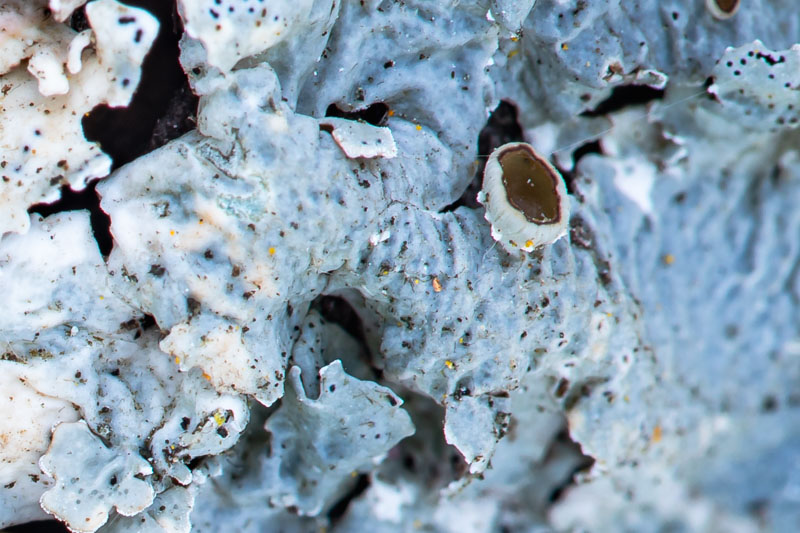
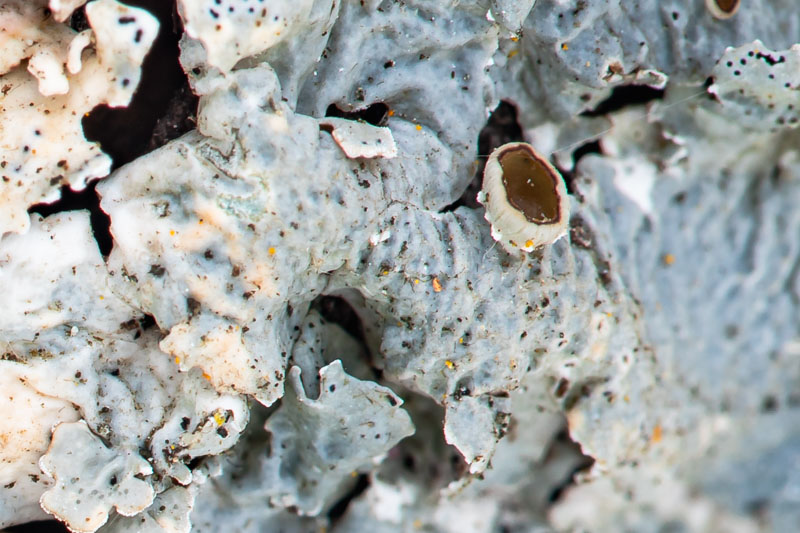
Update Greenshield

diff --git a/_site/gallery/fungi/lichen/common-greenshield/index.html b/_site/gallery/fungi/lichen/common-greenshield/index.html
@@ -113,7 +113,7 @@
 
 <p><strong>Common Greenshield Lichen</strong> is a pale yellow-green foliose species with <strong>broad, smooth, loosely attached lobes</strong> forming rounded mats on hardwood bark. The upper surface is often gently wrinkled and <strong>laminally sorediate</strong>, while margins lift slightly to reveal a <strong>dark lower surface that grades from black centrally to brown toward the edges</strong>, bearing <strong>simple black rhizines</strong>.</p>
 
-<p class="caption"><img src="/gallery/fungi/lichen/assets/common-greenshield/E21A6505.jpg" alt="Greenshield Circle" class="cover" role="img" aria-label="Greenshield Circle" />
+<p class="caption"><img src="/gallery/fungi/lichen/assets/common-greenshield/E21A6505.jpg" alt="Greenshield Circle" class="cover" role="img" aria-label="Greenshield Circle" id="e21a6505" />
 <strong>Greenshield Circle</strong><br />
 <em>A rounded foliose colony anchored firmly to aging elm bark.</em><br />
 Camera: Canon EOS 5D Mk IV<br />
@@ -123,7 +123,7 @@ Settings: ISO 200 • Aperture f/13 • Shutter 2.0 s<br />
 
 <p>The <strong>Greenshield Circle</strong> image shows a near-perfect foliose rosette centered on deeply fissured elm bark, surrounded by bright crustose yellows and scattered gray foliose neighbors. The matte surface and pale green hue create a calm focal point against the rough, dark background.</p>
 
-<p class="caption"><img src="/gallery/fungi/lichen/assets/common-greenshield/E21A6518.jpg" alt="Twin Colonies on an Elm Trunk" class="cover" role="img" aria-label="Twin Colonies on an Elm Trunk" />
+<p class="caption"><img src="/gallery/fungi/lichen/assets/common-greenshield/E21A6518.jpg" alt="Twin Colonies on an Elm Trunk" class="cover" role="img" aria-label="Twin Colonies on an Elm Trunk" id="e21a6518" />
 <strong>Twin Colonies on an Elm Trunk</strong><br />
 <em>Small foliose colonies scattered across rough elm bark.</em><br />
 Camera: Canon EOS 5D Mk IV<br />
@@ -133,17 +133,18 @@ Settings: ISO 200 • Aperture f/13 • Shutter 1/4 s<br />
 
 <p>This wider field view shows <strong>Common Greenshield</strong> growing as <strong>discrete foliose patches</strong> on a mature hardwood trunk. The <strong>pale yellow-green thalli</strong>, loosely adnate with rounded lobes, contrast against dark, fissured bark and neighboring crustose lichens. Images like this provide important <strong>ecological context</strong>, illustrating how <em>Flavoparmelia caperata</em> often appears as scattered rosettes rather than a single continuous thallus.</p>
 
-<p class="caption"><img src="/gallery/fungi/lichen/assets/common-greenshield/E21A8235.jpg" alt="Common Greenshield on Hardwood Bark" class="cover" role="img" aria-label="Common Greenshield lichen on hardwood bark" />
-<strong>Common Greenshield (<em>Flavoparmelia caperata</em>)</strong><br />
-<em>A pale yellow-green foliose lichen with broad, rounded lobes and diffuse laminal soredia.</em><br />
+<p class="caption"><em>Note: Images taken near twilight may appear cooler (blue-shifted) compared with overcast or midday light. Color cues for identification are best interpreted across multiple photos.</em><br />
+<img src="/gallery/fungi/lichen/assets/common-greenshield/E21A8235.jpg" alt="At the Coming Dawn" class="cover" role="img" aria-label="At the Coming Dawn" id="e21a8235" />
+<strong>At the Coming Dawn</strong><br />
+<em>A study in pale green and bark at the coming dawn.</em><br />
 Camera: Canon EOS 5D Mk IV<br />
 Lens: EF100mm f/2.8L Macro IS USM<br />
 Settings: ISO 200 • Aperture f/11 • Shutter 15.0 s<br />
 <em>E21A8235</em> • Size: 5892×3928</p>
 
-<p>This specimen shows the characteristic <strong>loosely adnate foliose thallus</strong> of Common Greenshield, with <strong>subirregular, overlapping lobes</strong> and a <strong>powdery to granular sorediate surface</strong>. The <strong>yellow-green coloration</strong>, absence of cilia or isidia, and laminal soredia spreading across the upper surface are consistent with <em>Flavoparmelia caperata</em>.</p>
+<p><strong>At the Coming Dawn</strong> shows the characteristic loosely adnate foliose thallus of Common Greenshield, with subirregular, overlapping lobes and a powdery to granular, laminally sorediate surface. The pale yellow-green thallus, appearing cooler under low light, along with the absence of cilia or isidia and the diffuse distribution of soredia across the upper surface, are consistent with <em>Flavoparmelia caperata</em>.</p>
 
-<p class="caption"><img src="/gallery/fungi/lichen/assets/common-greenshield/E21A6509.jpg" alt="Lobe Study Detail" class="cover" role="img" aria-label="Lobe Study Detail" />
+<p class="caption"><img src="/gallery/fungi/lichen/assets/common-greenshield/E21A6509.jpg" alt="Lobe Study Detail" class="cover" role="img" aria-label="Lobe Study Detail" id="e21a6509" />
 <strong>Lobe Study Detail</strong><br />
 <em>Overlapping lobes with faint gloss and tight surface wrinkling.</em><br />
 Camera: Canon EOS 5D Mk IV<br />
@@ -180,7 +181,7 @@ Settings: ISO 200 • Aperture f/13 • Shutter 4.0 s<br />
 <p><strong>Key features for field diagnosis:</strong></p>
 
 <ul>
-  <li><strong>Color:</strong> Pale yellow-green; never blue-gray</li>
+  <li><strong>Color:</strong> Pale yellow-green</li>
   <li><strong>Lobes:</strong> Broad, rounded, 5–13 mm wide</li>
   <li><strong>Surface:</strong> Smooth to gently rugose, laminally sorediate</li>
   <li><strong>Underside:</strong> Black centrally, brown toward margins</li>
@@ -193,9 +194,19 @@ Settings: ISO 200 • Aperture f/13 • Shutter 4.0 s<br />
 
 <h4 id="common-greenshield-flavoparmelia-caperata--consortium-of-lichen-herbaria"><a href="https://lichenportal.org/portal/taxa/index.php?taxon=54388&amp;clid=36840">Common Greenshield (<em>Flavoparmelia caperata</em>) — Consortium of Lichen Herbaria</a></h4>
 
-<hr />
+<ul>
+  <li><strong>Thallus:</strong> adnate to loosely adnate, foliose, 5-20 cm in diam., sometimes forming extensive patches, irregularly lobate</li>
+  <li><strong>Lobes:</strong> subirregular, elongate, plane to subconvex, separate, 5-13 mm wide, contiguous to somewhat imbricate</li>
+  <li><strong>Apex:</strong> rotund, crenate, eciliate upper surface: yellow green to pale yellow, occasionally green-gray (in shade), smooth but becoming rugose and folded with age, dull to somewhat shiny</li>
+  <li><strong>Soredia:</strong> epruinose and emaculate, laminal, granular to wart-like, initially in circular soralia but becoming diffuse and confluent</li>
+  <li><strong>Isidia:</strong> absent; medulla: white with continuous algal layer lower surface: black centrally, brown and naked peripherally</li>
+  <li><strong>Rhizines:</strong> dense to sparse centrally to edge of brown zone, black, simple</li>
+  <li><strong>Apothecia:</strong> sometime brown or white tipped rare, up to 8 mm wide, laminal, sessile</li>
+  <li><strong>Disc:</strong> brown</li>
+  <li><strong>Margin:</strong> smooth but sorediate sometimes asci: clavate, 8-spored ascospores: simple, ellipsoid, hyaline,</li>
+</ul>
 
-<p class="caption"><img src="/gallery/fungi/lichen/assets/common-greenshield/E21A8236-8250.jpg" alt="Focus-stacked Detail" class="cover" role="img" aria-label="Common Greenshield — Focus-stacked Detail" />
+<p class="caption"><img src="/gallery/fungi/lichen/assets/common-greenshield/E21A8236-8250.jpg" alt="Focus-stacked Detail" class="cover" role="img" aria-label="Common Greenshield — Focus-stacked Detail" id="e21a8236-8250" />
 <strong>Common Greenshield — Focus-stacked Detail</strong><br />
 <em>A study revealing laminal soredia, rugose texture, and embedded apothecia.</em><br />
 Camera: Canon EOS 5D Mk IV<br />
@@ -209,15 +220,15 @@ Technique: Focus stack<br />
 
 <h3 id="apothecia-rare-but-documented">Apothecia (rare but documented)</h3>
 
-<p class="caption"><img src="/gallery/fungi/lichen/assets/common-greenshield/E21A8248A.jpg" alt="Apothecium Close-up" class="cover" role="img" aria-label="Apothecium close-up on Common Greenshield" />
+<p class="caption"><img src="/gallery/fungi/lichen/assets/common-greenshield/E21A8248A.jpg" alt="Apothecium Close-up" class="cover" role="img" aria-label="Apothecium close-up on Common Greenshield" id="e21a8248A" />
 <strong>Apothecium Close-up</strong><br />
 <em>A single, well-developed laminal apothecium.</em></p>
 
-<p class="caption"><img src="/gallery/fungi/lichen/assets/common-greenshield/E21A8248B.jpg" alt="Apothecia Among Folded Lobes" class="cover" role="img" aria-label="Apothecia among folded lobes of Common Greenshield" />
+<p class="caption"><img src="/gallery/fungi/lichen/assets/common-greenshield/E21A8248B.jpg" alt="Apothecia Among Folded Lobes" class="cover" role="img" aria-label="Apothecia among folded lobes of Common Greenshield" id="e21a8248B" />
 <strong>Apothecia Among Folded Lobes</strong><br />
 <em>Multiple laminal apothecia embedded within rugose lobes.</em></p>
 
-<p class="caption"><img src="/gallery/fungi/lichen/assets/common-greenshield/E21A8248C.jpg" alt="Apothecia detail of Common Greenshield lichen" class="cover" role="img" aria-label="Apothecia detail of Common Greenshield lichen" />
+<p class="caption"><img src="/gallery/fungi/lichen/assets/common-greenshield/E21A8248C.jpg" alt="Apothecia detail of Common Greenshield lichen" class="cover" role="img" aria-label="Apothecia detail of Common Greenshield lichen" id="e21a8248C" />
 <strong>Apothecia detail</strong><br />
 <em>Rare laminal apothecia with brown discs and pale thalline margins.</em></p>
 
@@ -257,43 +268,45 @@ Technique: Focus stack<br />
 
 <h2 id="collection">Collection</h2>
 
+<p><em>Tap a thumbnail to jump to the full-size tile above (mobile-friendly).</em></p>
+
 <div class="grid" role="list" style="justify-content: center; text-align: center;">
 
-  <p><img src="/gallery/fungi/lichen/assets/common-greenshield/E21A6505.jpg" alt="Greenshield Circle" class="cover" role="img" aria-label="Greenshield Circle" />
-<em>E21A6505</em> <strong>Greenshield Circle</strong></p>
+  <p><a href="#e21a6505"><img src="/gallery/fungi/lichen/assets/common-greenshield/E21A6505.jpg" alt="Greenshield Circle" class="cover" role="img" aria-label="Greenshield Circle" />
+<em>E21A6505</em> <strong>Greenshield Circle</strong></a></p>
 
-  <p><img src="/gallery/fungi/lichen/assets/common-greenshield/E21A6518.jpg" alt="Twin Colonies on an Elm Trunk" class="cover" role="img" aria-label="Twin Colonies on an Elm Trunk" />
-<em>E21A6518</em> <strong>Twin Colonies on an Elm Trunk</strong></p>
+  <p><a href="#e21a6518"><img src="/gallery/fungi/lichen/assets/common-greenshield/E21A6518.jpg" alt="Twin Colonies on an Elm Trunk" class="cover" role="img" aria-label="Twin Colonies on an Elm Trunk" />
+<em>E21A6518</em> <strong>Twin Colonies on an Elm Trunk</strong></a></p>
 
 </div>
 
 <div class="grid" role="list" style="justify-content: center; text-align: center;">
 
-  <p><img src="/gallery/fungi/lichen/assets/common-greenshield/E21A8235.jpg" alt="Common Greenshield on Hardwood Bark" class="cover" role="img" aria-label="Common Greenshield on Hardwood Bark" />
-<em>E21A8235</em> <strong>Common Greenshield</strong></p>
+  <p><a href="#e21a8235"><img src="/gallery/fungi/lichen/assets/common-greenshield/E21A8235.jpg" alt="At the Coming Dawn" class="cover" role="img" aria-label="At the Coming Dawn" />
+<em>E21A8235</em> <strong>At the Coming Dawn</strong></a></p>
 
-  <p><img src="/gallery/fungi/lichen/assets/common-greenshield/E21A8236-8250.jpg" alt="Focus-stacked Detail" class="cover" role="img" aria-label="Common Greenshield Focus-stacked Detail" />
-<em>E21A8236–8250</em> <strong>Focus-stacked Detail</strong></p>
-
-</div>
-
-<div class="grid" role="list" style="justify-content: center; text-align: center;">
-
-  <p><img src="/gallery/fungi/lichen/assets/common-greenshield/E21A6509.jpg" alt="Lobe Study Detail" class="cover" role="img" aria-label="Lobe Study Detail" />
-<em>E21A6509</em> <strong>Lobe Study Detail</strong></p>
-
-  <p><img src="/gallery/fungi/lichen/assets/common-greenshield/E21A8248A.jpg" alt="Apothecium Close-up" class="cover" role="img" aria-label="Apothecium Close-up" />
-<em>E21A8248A</em> <strong>Apothecium Close-up</strong></p>
+  <p><a href="#e21a8236-8250"><img src="/gallery/fungi/lichen/assets/common-greenshield/E21A8236-8250.jpg" alt="Focus-stacked Detail" class="cover" role="img" aria-label="Common Greenshield Focus-stacked Detail" />
+<em>E21A8236–8250</em> <strong>Focus-stacked Detail</strong></a></p>
 
 </div>
 
 <div class="grid" role="list" style="justify-content: center; text-align: center;">
 
-  <p><img src="/gallery/fungi/lichen/assets/common-greenshield/E21A8248B.jpg" alt="Apothecia Among Folded Lobes" class="cover" role="img" aria-label="Apothecia Among Folded Lobes" />
-<em>E21A8248B</em> <strong>Apothecia Among Folded Lobes</strong></p>
+  <p><a href="#e21a6509"><img src="/gallery/fungi/lichen/assets/common-greenshield/E21A6509.jpg" alt="Lobe Study Detail" class="cover" role="img" aria-label="Lobe Study Detail" />
+<em>E21A6509</em> <strong>Lobe Study Detail</strong></a></p>
 
-  <p><img src="/gallery/fungi/lichen/assets/common-greenshield/E21A8248C.jpg" alt="Apothecia detail of Common Greenshield lichen" class="cover" role="img" aria-label="Apothecia detail of Common Greenshield lichen" />
-<em>E21A8248C</em> <strong>Apothecia Detail</strong></p>
+  <p><a href="#e21a8248A"><img src="/gallery/fungi/lichen/assets/common-greenshield/E21A8248A.jpg" alt="Apothecium Close-up" class="cover" role="img" aria-label="Apothecium Close-up" />
+<em>E21A8248A</em> <strong>Apothecium Close-up</strong></a></p>
+
+</div>
+
+<div class="grid" role="list" style="justify-content: center; text-align: center;">
+
+  <p><a href="#e21a8248B"><img src="/gallery/fungi/lichen/assets/common-greenshield/E21A8248B.jpg" alt="Apothecia Among Folded Lobes" class="cover" role="img" aria-label="Apothecia Among Folded Lobes" />
+<em>E21A8248B</em> <strong>Apothecia Among Folded Lobes</strong></a></p>
+
+  <p><a href="#e21a8248C"><img src="/gallery/fungi/lichen/assets/common-greenshield/E21A8248C.jpg" alt="Apothecia detail of Common Greenshield lichen" class="cover" role="img" aria-label="Apothecia detail of Common Greenshield lichen" />
+<em>E21A8248C</em> <strong>Apothecia Detail</strong></a></p>
 
 </div>
 
@@ -303,16 +316,16 @@ Technique: Focus stack<br />
 
 <ul>
   <li>
-    <p><strong>Missouri Department of Conservation — Common Greenshield Lichen</strong><br />
-<a href="https://mdc.mo.gov/discover-nature/field-guide/common-greenshield-lichen">https://mdc.mo.gov/discover-nature/field-guide/common-greenshield-lichen</a></p>
+    <p><a href="https://lichenportal.org/portal/taxa/index.php?taxon=54388&amp;clid=36840">Common Greenshield (<em>Flavoparmelia caperata</em>) — Consortium of Lichen Herbaria</a></p>
   </li>
   <li>
-    <p><strong>iNaturalist — <em>Flavoparmelia caperata</em></strong><br />
-<a href="https://www.inaturalist.org/taxa/129848-Flavoparmelia-caperata">https://www.inaturalist.org/taxa/129848-Flavoparmelia-caperata</a></p>
+    <p><a href="https://mdc.mo.gov/discover-nature/field-guide/common-greenshield-lichen">Missouri Department of Conservation — Common Greenshield Lichen</a></p>
   </li>
   <li>
-    <p><strong>MinnesotaSeasons — Common Greenshield Lichen</strong><br />
-<a href="http://www.minnesotaseasons.com/Fungi/Common_Greenshield_Lichen.html">http://www.minnesotaseasons.com/Fungi/Common_Greenshield_Lichen.html</a></p>
+    <p><a href="https://www.inaturalist.org/taxa/129848-Flavoparmelia-caperata">iNaturalist — <em>Flavoparmelia caperata</em></a></p>
+  </li>
+  <li>
+    <p><a href="http://www.minnesotaseasons.com/Fungi/Common_Greenshield_Lichen.html">MinnesotaSeasons — Common Greenshield Lichen</a></p>
   </li>
 </ul>
 

diff --git a/gallery/fungi/lichen/common-greenshield.md b/gallery/fungi/lichen/common-greenshield.md
@@ -10,7 +10,7 @@ keywords: "Common Greenshield Lichen, Flavoparmelia caperata, Minnesota lichens,
 
 **Common Greenshield Lichen** is a pale yellow-green foliose species with **broad, smooth, loosely attached lobes** forming rounded mats on hardwood bark. The upper surface is often gently wrinkled and **laminally sorediate**, while margins lift slightly to reveal a **dark lower surface that grades from black centrally to brown toward the edges**, bearing **simple black rhizines**.
 
-![Greenshield Circle](/gallery/fungi/lichen/assets/common-greenshield/E21A6505.jpg){: .cover role="img" aria-label="Greenshield Circle"}
+![Greenshield Circle](/gallery/fungi/lichen/assets/common-greenshield/E21A6505.jpg){: .cover role="img" aria-label="Greenshield Circle" id="e21a6505"}
 **Greenshield Circle**  
 _A rounded foliose colony anchored firmly to aging elm bark._  
 Camera: Canon EOS 5D Mk IV  
@@ -21,7 +21,7 @@ _E21A6505_ • Size: 6720×4480
 
 The **Greenshield Circle** image shows a near-perfect foliose rosette centered on deeply fissured elm bark, surrounded by bright crustose yellows and scattered gray foliose neighbors. The matte surface and pale green hue create a calm focal point against the rough, dark background.
 
-![Twin Colonies on an Elm Trunk](/gallery/fungi/lichen/assets/common-greenshield/E21A6518.jpg){: .cover role="img" aria-label="Twin Colonies on an Elm Trunk"}
+![Twin Colonies on an Elm Trunk](/gallery/fungi/lichen/assets/common-greenshield/E21A6518.jpg){: .cover role="img" aria-label="Twin Colonies on an Elm Trunk" id="e21a6518"}
 **Twin Colonies on an Elm Trunk**  
 _Small foliose colonies scattered across rough elm bark._  
 Camera: Canon EOS 5D Mk IV  
@@ -30,20 +30,21 @@ Settings: ISO 200 • Aperture f/13 • Shutter 1/4 s
 _E21A6518_ • Size: 6720×4480  
 {: .caption}
 
-This wider field view shows **Common Greenshield** growing as **discrete foliose patches** on a mature hardwood trunk. The **pale yellow-green thalli**, loosely adnate with rounded lobes, contrast against dark, fissured bark and neighboring crustose lichens. Images like this provide important **ecological context**, illustrating how *Flavoparmelia caperata* often appears as scattered rosettes rather than a single continuous thallus.
+This wider field view shows **Common Greenshield** growing as **discrete foliose patches** on a mature hardwood trunk. The **pale yellow-green thalli**, loosely adnate with rounded lobes, contrast against dark, fissured bark and neighboring crustose lichens. Images like this provide important **ecological context**, illustrating how *Flavoparmelia caperata* often appears as scattered rosettes rather than a single continuous thallus.  
 
-![Common Greenshield on Hardwood Bark](/gallery/fungi/lichen/assets/common-greenshield/E21A8235.jpg){: .cover role="img" aria-label="Common Greenshield lichen on hardwood bark"}
-**Common Greenshield (*Flavoparmelia caperata*)**  
-_A pale yellow-green foliose lichen with broad, rounded lobes and diffuse laminal soredia._  
+_Note: Images taken near twilight may appear cooler (blue-shifted) compared with overcast or midday light. Color cues for identification are best interpreted across multiple photos._  
+![At the Coming Dawn](/gallery/fungi/lichen/assets/common-greenshield/E21A8235.jpg){: .cover role="img" aria-label="At the Coming Dawn" id="e21a8235"}
+**At the Coming Dawn**  
+_A study in pale green and bark at the coming dawn._  
 Camera: Canon EOS 5D Mk IV  
 Lens: EF100mm f/2.8L Macro IS USM  
 Settings: ISO 200 • Aperture f/11 • Shutter 15.0 s  
 _E21A8235_ • Size: 5892×3928  
 {: .caption}
 
-This specimen shows the characteristic **loosely adnate foliose thallus** of Common Greenshield, with **subirregular, overlapping lobes** and a **powdery to granular sorediate surface**. The **yellow-green coloration**, absence of cilia or isidia, and laminal soredia spreading across the upper surface are consistent with *Flavoparmelia caperata*.
+**At the Coming Dawn** shows the characteristic loosely adnate foliose thallus of Common Greenshield, with subirregular, overlapping lobes and a powdery to granular, laminally sorediate surface. The pale yellow-green thallus, appearing cooler under low light, along with the absence of cilia or isidia and the diffuse distribution of soredia across the upper surface, are consistent with *Flavoparmelia caperata*.
 
-![Lobe Study Detail](/gallery/fungi/lichen/assets/common-greenshield/E21A6509.jpg){: .cover role="img" aria-label="Lobe Study Detail"}
+![Lobe Study Detail](/gallery/fungi/lichen/assets/common-greenshield/E21A6509.jpg){: .cover role="img" aria-label="Lobe Study Detail" id="e21a6509"}
 **Lobe Study Detail**  
 _Overlapping lobes with faint gloss and tight surface wrinkling._  
 Camera: Canon EOS 5D Mk IV  
@@ -78,7 +79,7 @@ Greenshield forms **discrete foliose rosettes** or broader, merging patches on t
 
 **Key features for field diagnosis:**
 
-- **Color:** Pale yellow-green; never blue-gray  
+- **Color:** Pale yellow-green  
 - **Lobes:** Broad, rounded, 5–13 mm wide  
 - **Surface:** Smooth to gently rugose, laminally sorediate  
 - **Underside:** Black centrally, brown toward margins  
@@ -89,9 +90,18 @@ Greenshield forms **discrete foliose rosettes** or broader, merging patches on t
 
 #### [Common Greenshield (*Flavoparmelia caperata*) — Consortium of Lichen Herbaria](https://lichenportal.org/portal/taxa/index.php?taxon=54388&clid=36840)
 
----
+- **Thallus:** adnate to loosely adnate, foliose, 5-20 cm in diam., sometimes forming extensive patches, irregularly lobate 
+- **Lobes:** subirregular, elongate, plane to subconvex, separate, 5-13 mm wide, contiguous to somewhat imbricate 
+- **Apex:** rotund, crenate, eciliate upper surface: yellow green to pale yellow, occasionally green-gray (in shade), smooth but becoming rugose and folded with age, dull to somewhat shiny 
+- **Soredia:** epruinose and emaculate, laminal, granular to wart-like, initially in circular soralia but becoming diffuse and confluent 
+- **Isidia:** absent; medulla: white with continuous algal layer lower surface: black centrally, brown and naked peripherally 
+- **Rhizines:** dense to sparse centrally to edge of brown zone, black, simple 
+- **Apothecia:** sometime brown or white tipped rare, up to 8 mm wide, laminal, sessile
+- **Disc:** brown
+- **Margin:** smooth but sorediate sometimes asci: clavate, 8-spored ascospores: simple, ellipsoid, hyaline, 
 
-![Focus-stacked Detail](/gallery/fungi/lichen/assets/common-greenshield/E21A8236-8250.jpg){: .cover role="img" aria-label="Common Greenshield — Focus-stacked Detail"}
+
+![Focus-stacked Detail](/gallery/fungi/lichen/assets/common-greenshield/E21A8236-8250.jpg){: .cover role="img" aria-label="Common Greenshield — Focus-stacked Detail" id="e21a8236-8250"}
 **Common Greenshield — Focus-stacked Detail**  
 _A study revealing laminal soredia, rugose texture, and embedded apothecia._  
 Camera: Canon EOS 5D Mk IV  
@@ -106,17 +116,17 @@ This focus-stacked composite emphasizes the **laminal distribution of granular t
 
 ### Apothecia (rare but documented)
 
-![Apothecium Close-up](/gallery/fungi/lichen/assets/common-greenshield/E21A8248A.jpg){: .cover role="img" aria-label="Apothecium close-up on Common Greenshield"}
+![Apothecium Close-up](/gallery/fungi/lichen/assets/common-greenshield/E21A8248A.jpg){: .cover role="img" aria-label="Apothecium close-up on Common Greenshield" id="e21a8248A"}
 **Apothecium Close-up**  
 _A single, well-developed laminal apothecium._  
 {: .caption}
 
-![Apothecia Among Folded Lobes](/gallery/fungi/lichen/assets/common-greenshield/E21A8248B.jpg){: .cover role="img" aria-label="Apothecia among folded lobes of Common Greenshield"}
+![Apothecia Among Folded Lobes](/gallery/fungi/lichen/assets/common-greenshield/E21A8248B.jpg){: .cover role="img" aria-label="Apothecia among folded lobes of Common Greenshield" id="e21a8248B"}
 **Apothecia Among Folded Lobes**  
 _Multiple laminal apothecia embedded within rugose lobes._  
 {: .caption}
 
-![Apothecia detail of Common Greenshield lichen](/gallery/fungi/lichen/assets/common-greenshield/E21A8248C.jpg){: .cover role="img" aria-label="Apothecia detail of Common Greenshield lichen"}
+![Apothecia detail of Common Greenshield lichen](/gallery/fungi/lichen/assets/common-greenshield/E21A8248C.jpg){: .cover role="img" aria-label="Apothecia detail of Common Greenshield lichen" id="e21a8248C"}
 **Apothecia detail**  
 _Rare laminal apothecia with brown discs and pale thalline margins._  
 {: .caption}
@@ -153,43 +163,45 @@ Colonies may persist for decades, slowly expanding across bark in rounded, overl
 
 ## Collection
 
+_Tap a thumbnail to jump to the full-size tile above (mobile-friendly)._
+
 <div class="grid" role="list" style="justify-content: center; text-align: center;">
 
-![Greenshield Circle](/gallery/fungi/lichen/assets/common-greenshield/E21A6505.jpg){: .cover role="img" aria-label="Greenshield Circle"}
-_E21A6505_ **Greenshield Circle**
+[![Greenshield Circle](/gallery/fungi/lichen/assets/common-greenshield/E21A6505.jpg){: .cover role="img" aria-label="Greenshield Circle"}
+_E21A6505_ **Greenshield Circle**](#e21a6505)
 
-![Twin Colonies on an Elm Trunk](/gallery/fungi/lichen/assets/common-greenshield/E21A6518.jpg){: .cover role="img" aria-label="Twin Colonies on an Elm Trunk"}
-_E21A6518_ **Twin Colonies on an Elm Trunk**
+[![Twin Colonies on an Elm Trunk](/gallery/fungi/lichen/assets/common-greenshield/E21A6518.jpg){: .cover role="img" aria-label="Twin Colonies on an Elm Trunk"}
+_E21A6518_ **Twin Colonies on an Elm Trunk**](#e21a6518)
 
 </div>
 
 <div class="grid" role="list" style="justify-content: center; text-align: center;">
 
-![Common Greenshield on Hardwood Bark](/gallery/fungi/lichen/assets/common-greenshield/E21A8235.jpg){: .cover role="img" aria-label="Common Greenshield on Hardwood Bark"}
-_E21A8235_ **Common Greenshield**
+[![At the Coming Dawn](/gallery/fungi/lichen/assets/common-greenshield/E21A8235.jpg){: .cover role="img" aria-label="At the Coming Dawn"}
+_E21A8235_ **At the Coming Dawn**](#e21a8235)
 
-![Focus-stacked Detail](/gallery/fungi/lichen/assets/common-greenshield/E21A8236-8250.jpg){: .cover role="img" aria-label="Common Greenshield Focus-stacked Detail"}
-_E21A8236–8250_ **Focus-stacked Detail**
-
-</div>
-
-<div class="grid" role="list" style="justify-content: center; text-align: center;">
-
-![Lobe Study Detail](/gallery/fungi/lichen/assets/common-greenshield/E21A6509.jpg){: .cover role="img" aria-label="Lobe Study Detail"}
-_E21A6509_ **Lobe Study Detail**
-
-![Apothecium Close-up](/gallery/fungi/lichen/assets/common-greenshield/E21A8248A.jpg){: .cover role="img" aria-label="Apothecium Close-up"}
-_E21A8248A_ **Apothecium Close-up**
+[![Focus-stacked Detail](/gallery/fungi/lichen/assets/common-greenshield/E21A8236-8250.jpg){: .cover role="img" aria-label="Common Greenshield Focus-stacked Detail"}
+_E21A8236–8250_ **Focus-stacked Detail**](#e21a8236-8250)
 
 </div>
 
 <div class="grid" role="list" style="justify-content: center; text-align: center;">
 
-![Apothecia Among Folded Lobes](/gallery/fungi/lichen/assets/common-greenshield/E21A8248B.jpg){: .cover role="img" aria-label="Apothecia Among Folded Lobes"}
-_E21A8248B_ **Apothecia Among Folded Lobes**
+[![Lobe Study Detail](/gallery/fungi/lichen/assets/common-greenshield/E21A6509.jpg){: .cover role="img" aria-label="Lobe Study Detail"}
+_E21A6509_ **Lobe Study Detail**](#e21a6509)
 
-![Apothecia detail of Common Greenshield lichen](/gallery/fungi/lichen/assets/common-greenshield/E21A8248C.jpg){: .cover role="img" aria-label="Apothecia detail of Common Greenshield lichen"}
-_E21A8248C_ **Apothecia Detail**
+[![Apothecium Close-up](/gallery/fungi/lichen/assets/common-greenshield/E21A8248A.jpg){: .cover role="img" aria-label="Apothecium Close-up"}
+_E21A8248A_ **Apothecium Close-up**](#e21a8248A)
+
+</div>
+
+<div class="grid" role="list" style="justify-content: center; text-align: center;">
+
+[![Apothecia Among Folded Lobes](/gallery/fungi/lichen/assets/common-greenshield/E21A8248B.jpg){: .cover role="img" aria-label="Apothecia Among Folded Lobes"}
+_E21A8248B_ **Apothecia Among Folded Lobes**](#e21a8248B)
+
+[![Apothecia detail of Common Greenshield lichen](/gallery/fungi/lichen/assets/common-greenshield/E21A8248C.jpg){: .cover role="img" aria-label="Apothecia detail of Common Greenshield lichen"}
+_E21A8248C_ **Apothecia Detail**](#e21a8248C)
 
 </div>
 
@@ -197,11 +209,10 @@ _E21A8248C_ **Apothecia Detail**
 
 ## References
 
-- **Missouri Department of Conservation — Common Greenshield Lichen**  
-  <https://mdc.mo.gov/discover-nature/field-guide/common-greenshield-lichen>
+- [Common Greenshield (*Flavoparmelia caperata*) — Consortium of Lichen Herbaria](https://lichenportal.org/portal/taxa/index.php?taxon=54388&clid=36840)
 
-- **iNaturalist — *Flavoparmelia caperata***  
-  <https://www.inaturalist.org/taxa/129848-Flavoparmelia-caperata>
+- [Missouri Department of Conservation — Common Greenshield Lichen](https://mdc.mo.gov/discover-nature/field-guide/common-greenshield-lichen)
 
-- **MinnesotaSeasons — Common Greenshield Lichen**  
-  <http://www.minnesotaseasons.com/Fungi/Common_Greenshield_Lichen.html>
+- [iNaturalist — *Flavoparmelia caperata*](https://www.inaturalist.org/taxa/129848-Flavoparmelia-caperata)
+
+- [MinnesotaSeasons — Common Greenshield Lichen](http://www.minnesotaseasons.com/Fungi/Common_Greenshield_Lichen.html)  
